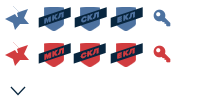
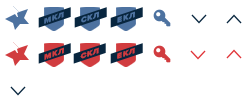
Архив

diff --git a/app/webroot/css/main.css b/app/webroot/css/main.css
@@ -672,19 +672,20 @@ header .intro .inner .logo {
 header .second-menu {
   height: 70px;
   background: #08263f;
-}
-header .second-menu ul {
-  margin: 0;
   padding: 0;
 }
-header .second-menu ul li {
+header .second-menu ul.sections {
+  margin: 0;
+  padding: 0 40px;
+}
+header .second-menu ul.sections li {
   margin: 0 30px 0 0;
   float: left;
 }
-header .second-menu ul li.active a {
+header .second-menu ul.sections li.active a {
   color: #d13c3f;
 }
-header .second-menu ul li a {
+header .second-menu ul.sections li a {
   line-height: 70px;
   text-transform: uppercase;
   text-decoration: none;
@@ -693,8 +694,63 @@ header .second-menu ul li a {
   font-size: 16px;
   font-family: "Proxima Nova", Arial, sans-serif;
 }
-header .second-menu ul li a:hover {
+header .second-menu ul.sections li a:hover {
   color: #d13c3f;
+}
+header .second-menu .archive-menu {
+  position: relative;
+  float: right;
+  text-transform: uppercase;
+  font-family: "Proxima Nova";
+  font-weight: bold;
+  color: #dde9f7;
+}
+header .second-menu .archive-menu .archive-item {
+  display: block;
+  width: 170px;
+  height: 70px;
+  padding: 0 30px;
+  line-height: 70px;
+  background: #003663;
+  text-decoration: none;
+  color: #dde9f7;
+}
+header .second-menu .archive-menu .archive-item.active,
+header .second-menu .archive-menu .archive-item:hover {
+  color: #d13c3f;
+}
+header .second-menu .archive-menu .active:after {
+  content: '';
+  height: 16px;
+  width: 16px;
+  position: absolute;
+  right: 30px;
+  top: 50%;
+  margin-top: -8px;
+  background: url('/img/icons.png');
+  background-position: -190px -46px;
+}
+header .second-menu .archive-menu.opened .active:after {
+  content: '';
+  height: 16px;
+  width: 16px;
+  position: absolute;
+  right: 30px;
+  top: 50%;
+  margin-top: -8px;
+  background: url('/img/icons.png');
+  background-position: -226px -46px;
+}
+header .second-menu .archive-menu ul {
+  position: absolute;
+  top: 70px;
+  left: 0;
+  z-index: 10;
+  margin: 0;
+  padding: 0;
+}
+header .second-menu .archive-menu ul li {
+  border-top: 1px solid #08263f;
 }
 footer {
   height: 175px;
@@ -762,7 +818,13 @@ footer .inner .footer-logo {
 .container {
   min-width: 950px;
   padding: 0 20px;
-  max-width: 1160px;
+  max-width: 1120px;
+  margin: 0 auto;
+}
+.container-nospace {
+  min-width: 990px;
+  padding: 0;
+  max-width: 1200px;
   margin: 0 auto;
 }
 @media (min-width: 1025px) {

diff --git a/app/webroot/less/main.less b/app/webroot/less/main.less
@@ -150,10 +150,11 @@ header{
   .second-menu{
     height: 70px;
     background: @header-bg;
+    padding: 0;
 
-    ul {
+    ul.sections {
       margin: 0;
-      padding: 0;
+      padding: 0 40px;
 
       li {
         margin: 0 30px 0 0;
@@ -178,7 +179,70 @@ header{
         }
       }
     }
+
+    .archive-menu{
+      position: relative;
+      float: right;
+      text-transform: uppercase;
+      font-family: "Proxima Nova";
+      font-weight: bold;
+      color: #dde9f7;
+
+      .archive-item{
+        display: block;
+        width: 170px;
+        height: 70px;
+        padding: 0 30px;
+        line-height: 70px;
+        background: #003663;
+        text-decoration: none;
+        color: #dde9f7;
+
+        &.active, &:hover{
+          color: @hover-color;
+        }
+      }
+
+      .active:after{
+        content: '';
+        height: 16px;
+        width: 16px;
+        position: absolute;
+        right: 30px;
+        top: 50%;
+        margin-top: -8px;
+        background: url('/img/icons.png');
+        background-position: -190px -46px;
+      }
+
+      &.opened .active:after {
+        content: '';
+        height: 16px;
+        width: 16px;
+        position: absolute;
+        right: 30px;
+        top: 50%;
+        margin-top: -8px;
+        background: url('/img/icons.png');
+        background-position: -226px -46px;
+      }
+
+      ul{
+        position: absolute;
+        top: 70px;
+        left: 0;
+        z-index: 10;
+        margin: 0;
+        padding: 0;
+
+        li{
+          border-top: 1px solid #08263f;
+        }
+      }
+    }
   }
+
+
 }
 
 footer{
@@ -258,7 +322,14 @@ footer{
 .container{
   min-width: 950px;
   padding: 0 20px;
-  max-width: 1160px;
+  max-width: 1120px;
+  margin: 0 auto;
+}
+
+.container-nospace{
+  min-width: 990px;
+  padding: 0;
+  max-width: 1200px;
   margin: 0 auto;
 }
 

diff --git a/app/webroot/js/scripts.js b/app/webroot/js/scripts.js
@@ -1,10 +1,36 @@
-$( "#tabs" ).tabs();
-$( ".university-tabs" ).tabs();
+$(function(){
+    $( "#tabs" ).tabs();
+    $( ".university-tabs" ).tabs();
 
-$.each($('.input select'), function () {
-    var width = $(this).width() + 15;
-    if (width > 340){
-        width = 340;
-    }
-    $(this).selectmenu({ "width" : width}) // You just take the width of the current select and add some extra value to it
-})
+    $.each($('.input select'), function () {
+        var width = $(this).width() + 15;
+        if (width > 340){
+            width = 340;
+        }
+        $(this).selectmenu({ "width" : width}) // You just take the width of the current select and add some extra value to it
+    });
+
+    $('.archive-menu .active').click(function(event){
+        if (!$('.archive-menu').hasClass('opened')){
+            $('.archive-menu ul').show();
+            $('.archive-menu').addClass('opened');
+        }
+        else{
+            $('.archive-menu ul').hide();
+            $('.archive-menu').removeClass('opened');
+        }
+        event.preventDefault();
+    });
+
+    $('.archive-menu.opened .archive-item').click(function(event){
+        $('.archive-menu ul').hide();
+        $('.archive-menu').removeClass('opened');
+    });
+
+    $(document).click(function(event) {
+        if ($(event.target).closest(".archive-menu").length) return;
+        $('.archive-menu ul').hide();
+        $('.archive-menu').removeClass('opened');
+        event.stopPropagation();
+    });
+});
